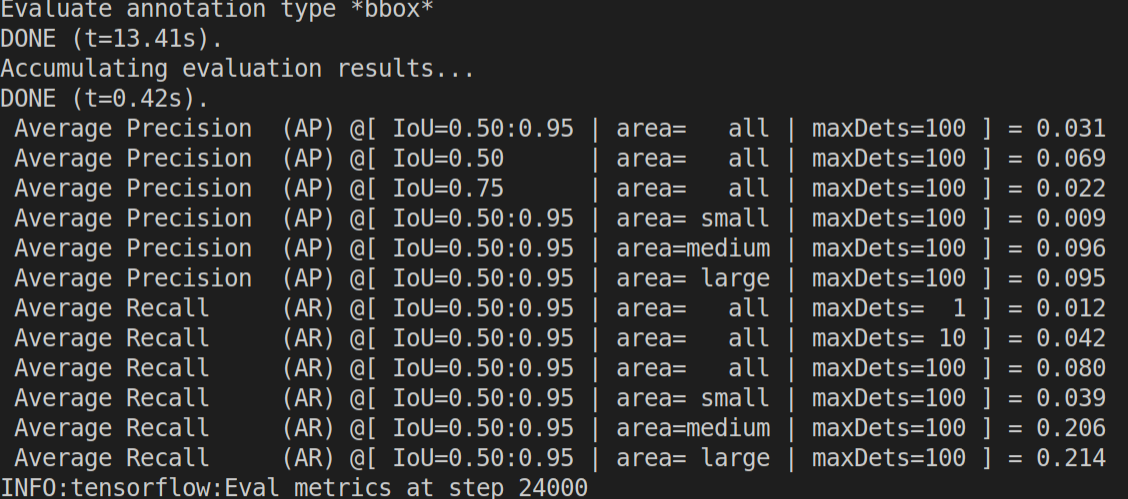
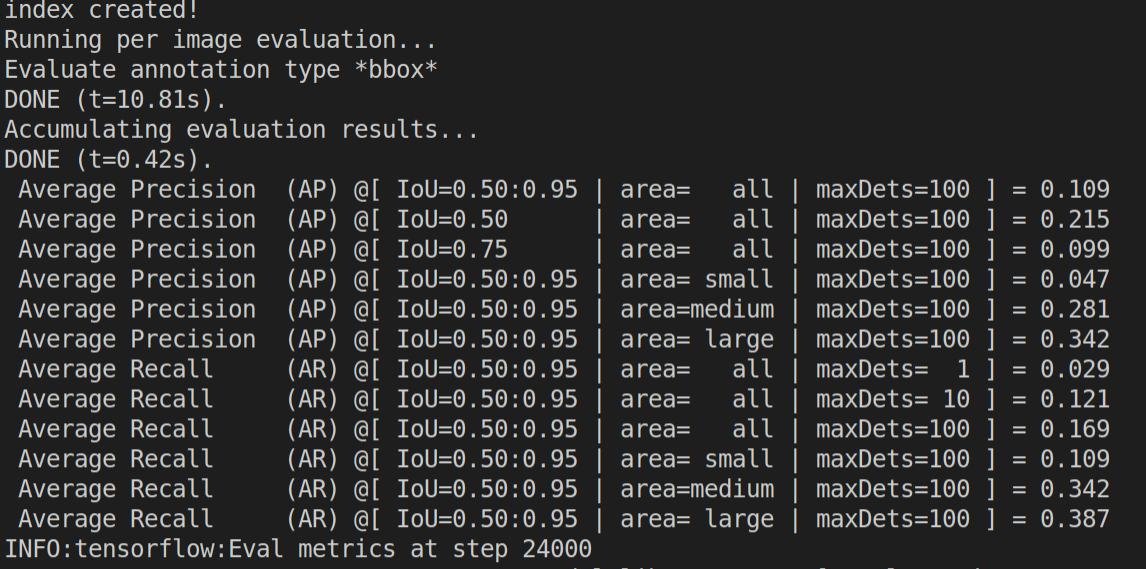
add project overview

diff --git a/README.md b/README.md
@@ -1,5 +1,9 @@
 # Object Detection in an Urban Environment
 
+## Project Overview
+
+This is a student project for the Computer Vision part of Udacity Self Driving Car Engineer Nanodegree. An object detection network is trained on Waymo dataset.
+
 ## Data
 
 For this project, we will be using data from the [Waymo Open dataset](https://waymo.com/open/).
@@ -12,7 +16,7 @@ For this project, we will be using data from the [Waymo Open dataset](https://wa
 
 The data you will use for training, validation and testing is organized as follow:
 ```
-/home/workspace/data/waymo
+/data/waymo
     - training_and_validation - contains 97 files to train and validate your models
     - train: contain the train data (empty to start)
     - val: contain the val data (empty to start)
@@ -38,9 +42,7 @@ experiments/
     ...
 ```
 
-## Prerequisites
-
-### Local Setup
+## Setup
 
 For local setup if you have your own Nvidia GPU, you can use the provided Dockerfile and requirements in the [build directory](./build).
 
@@ -48,7 +50,7 @@ Follow [the README therein](./build/README.md) to create a docker container and 
 
 ### Download and process the data
 
-**Note:** ”If you are using the classroom workspace, we have already completed the steps in the section for you. You can find the downloaded and processed files within the `/home/workspace/data/preprocessed_data/` directory. Check this out then proceed to the **Exploratory Data Analysis** part.
+
 
 The first goal of this project is to download the data from the Waymo's Google Cloud bucket to your local machine. For this project, we only need a subset of the data provided (for example, we do not need to use the Lidar data). Therefore, we are going to download and trim immediately each file. In `download_process.py`, you can view the `create_tf_example` function, which will perform this processing. This function takes the components of a Waymo Tf record and saves them in the Tf Object Detection api format. An example of such function is described [here](https://tensorflow-object-detection-api-tutorial.readthedocs.io/en/latest/training.html#create-tensorflow-records). We are already providing the `label_map.pbtxt` file.
 
@@ -59,44 +61,32 @@ python download_process.py --data_dir {processed_file_location} --size {number o
 
 You are downloading 100 files (unless you changed the `size` parameter) so be patient! Once the script is done, you can look inside your `data_dir` folder to see if the files have been downloaded and processed correctly.
 
-### Classroom Workspace
-
-In the classroom workspace, every library and package should already be installed in your environment. You will NOT need to make use of `gcloud` to download the images.
-
-## Instructions
-
-### Exploratory Data Analysis
-
-You should use the data already present in `/home/workspace/data/waymo` directory to explore the dataset! This is the most important task of any machine learning project. To do so, open the `Exploratory Data Analysis` notebook. In this notebook, your first task will be to implement a `display_instances` function to display images and annotations using `matplotlib`. This should be very similar to the function you created during the course. Once you are done, feel free to spend more time exploring the data and report your findings. Report anything relevant about the dataset in the writeup.
-
-Keep in mind that you should refer to this analysis to create the different spits (training, testing and validation).
-
 
 ### Create the training - validation splits
 In the class, we talked about cross-validation and the importance of creating meaningful training and validation splits. For this project, you will have to create your own training and validation sets using the files located in `/home/workspace/data/waymo`. The `split` function in the `create_splits.py` file does the following:
-* create three subfolders: `/home/workspace/data/train/`, `/home/workspace/data/val/`, and `/home/workspace/data/test/`
-* split the tf records files between these three folders by symbolically linking the files from `/home/workspace/data/waymo/` to `/home/workspace/data/train/`, `/home/workspace/data/val/`, and `/home/workspace/data/test/`
+* create three subfolders: `{data_location}/train/`, `{data_location}/val/`, and `/home/workspace/data/test/`
+* split the tf records files between these three folders by symbolically linking the files from `{data_location}/waymo/` to `{data_location}/train/`, `{data_location}/val/`, and `{data_location}/test/`
 
 Use the following command to run the script once your function is implemented:
 ```
-python create_splits.py --data-dir /home/workspace/data
+python create_splits.py --data-dir {data_location}
 ```
 
 ### Edit the config file
 
 Now you are ready for training. As we explain during the course, the Tf Object Detection API relies on **config files**. The config that we will use for this project is `pipeline.config`, which is the config for a SSD Resnet 50 640x640 model. You can learn more about the Single Shot Detector [here](https://arxiv.org/pdf/1512.02325.pdf).
 
-First, let's download the [pretrained model](http://download.tensorflow.org/models/object_detection/tf2/20200711/ssd_resnet50_v1_fpn_640x640_coco17_tpu-8.tar.gz) and move it to `/home/workspace/experiments/pretrained_model/`.
+First, let's download the [pretrained model](http://download.tensorflow.org/models/object_detection/tf2/20200711/ssd_resnet50_v1_fpn_640x640_coco17_tpu-8.tar.gz) and move it to `experiments/pretrained_model/`.
 
 We need to edit the config files to change the location of the training and validation files, as well as the location of the label_map file, pretrained weights. We also need to adjust the batch size. To do so, run the following:
 ```
-python edit_config.py --train_dir /home/workspace/data/train/ --eval_dir /home/workspace/data/val/ --batch_size 2 --checkpoint /home/workspace/experiments/pretrained_model/ssd_resnet50_v1_fpn_640x640_coco17_tpu-8/checkpoint/ckpt-0 --label_map /home/workspace/experiments/label_map.pbtxt
+python edit_config.py --train_dir {data_location}train/ --eval_dir {data_location}/val/ --batch_size 2 --checkpoint ./experiments/pretrained_model/ssd_resnet50_v1_fpn_640x640_coco17_tpu-8/checkpoint/ckpt-0 --label_map ./experiments/label_map.pbtxt
 ```
 A new config file has been created, `pipeline_new.config`.
 
 ### Training
 
-You will now launch your very first experiment with the Tensorflow object detection API. Move the `pipeline_new.config` to the `/home/workspace/experiments/reference` folder. Now launch the training process:
+Move the `pipeline_new.config` to the `./experiments/reference` folder. Now launch the training process:
 * a training process:
 ```
 python experiments/model_main_tf2.py --model_dir=experiments/reference/ --pipeline_config_path=experiments/reference/pipeline_new.config
@@ -110,17 +100,8 @@ python experiments/model_main_tf2.py --model_dir=experiments/reference/ --pipeli
 **Note**: Both processes will display some Tensorflow warnings, which can be ignored. You may have to kill the evaluation script manually using
 `CTRL+C`.
 
-To monitor the training, you can launch a tensorboard instance by running `python -m tensorboard.main --logdir experiments/reference/`. You will report your findings in the writeup.
+To monitor the training, you can launch a tensorboard instance by running `python -m tensorboard.main --logdir experiments/reference/`.
 
-### Improve the performances
-
-Most likely, this initial experiment did not yield optimal results. However, you can make multiple changes to the config file to improve this model. One obvious change consists in improving the data augmentation strategy. The [`preprocessor.proto`](https://github.com/tensorflow/models/blob/master/research/object_detection/protos/preprocessor.proto) file contains the different data augmentation method available in the Tf Object Detection API. To help you visualize these augmentations, we are providing a notebook: `Explore augmentations.ipynb`. Using this notebook, try different data augmentation combinations and select the one you think is optimal for our dataset. Justify your choices in the writeup.
-
-Keep in mind that the following are also available:
-* experiment with the optimizer: type of optimizer, learning rate, scheduler etc
-* experiment with the architecture. The Tf Object Detection API [model zoo](https://github.com/tensorflow/models/blob/master/research/object_detection/g3doc/tf2_detection_zoo.md) offers many architectures. Keep in mind that the `pipeline.config` file is unique for each architecture and you will have to edit it.
-
-**Important:** If you are working on the workspace, your storage is limited. You may to delete the checkpoints files after each experiment. You should however keep the `tf.events` files located in the `train` and `eval` folder of your experiments. You can also keep the `saved_model` folder to create your videos.
 
 
 ### Creating an animation
@@ -138,23 +119,45 @@ Finally, you can create a video of your model's inferences for any tf record fil
 python inference_video.py --labelmap_path label_map.pbtxt --model_path experiments/reference/exported/saved_model --tf_record_path /data/waymo/testing/segment-12200383401366682847_2552_140_2572_140_with_camera_labels.tfrecord --config_path experiments/reference/pipeline_new.config --output_path animation.gif
 ```
 
-## Submission Template
+## Dataset
 
-### Project overview
-This section should contain a brief description of the project and what we are trying to achieve. Why is object detection such an important component of self driving car systems?
+### Dataset analysis
 
-### Set up
-This section should contain a brief description of the steps to follow to run the code for this repository.
+The data analysis part is done in `Exploratory Data Analysis.ipynb`.
 
-### Dataset
-#### Dataset analysis
-This section should contain a quantitative and qualitative description of the dataset. It should include images, charts and other visualizations.
-#### Cross validation
-This section should detail the cross validation strategy and justify your approach.
 
-### Training
-#### Reference experiment
-This section should detail the results of the reference experiment. It should includes training metrics and a detailed explanation of the algorithm's performances.
+### Improve the performances
 
-#### Improve on the reference
-This section should highlight the different strategies you adopted to improve your model. It should contain relevant figures and details of your findings.
+The result of the first experiment is not satisfying. The total loss stayed over 2.8 after 25000 steps.
+
+
+![loss](/performance/loss_original.png "loss")
+
+Also, the average precision and recall on the evaluation dataset is low (< 0.25):
+
+![apc](/performance/Average_precision_recall_original.png "apc")
+
+The animation (qualitative) is also problematic, inference results seem to be quite off:
+
+![animation](/performance/animation.gif "animation")
+
+
+In order to make the trained neuron network to generalize better, I added more data augmentation methods. The batch size is also changed to 6. The performance of the network increased drastically. The total loss after 25000 steps is decreased to slightly over 0.18:
+
+
+![loss_imp](/performance/loss_improved.png "loss_imp")
+
+
+and the precision and recall also increased:
+
+![apc_imp](/performance/Average_precision_recall_improved.png "apc_imp")
+
+
+The qualitative result is also much better, especially the pedestrians are now detected.
+
+
+![animation_imp](/performance/animation_improved.gif "animation_imp")
+
+
+
+
